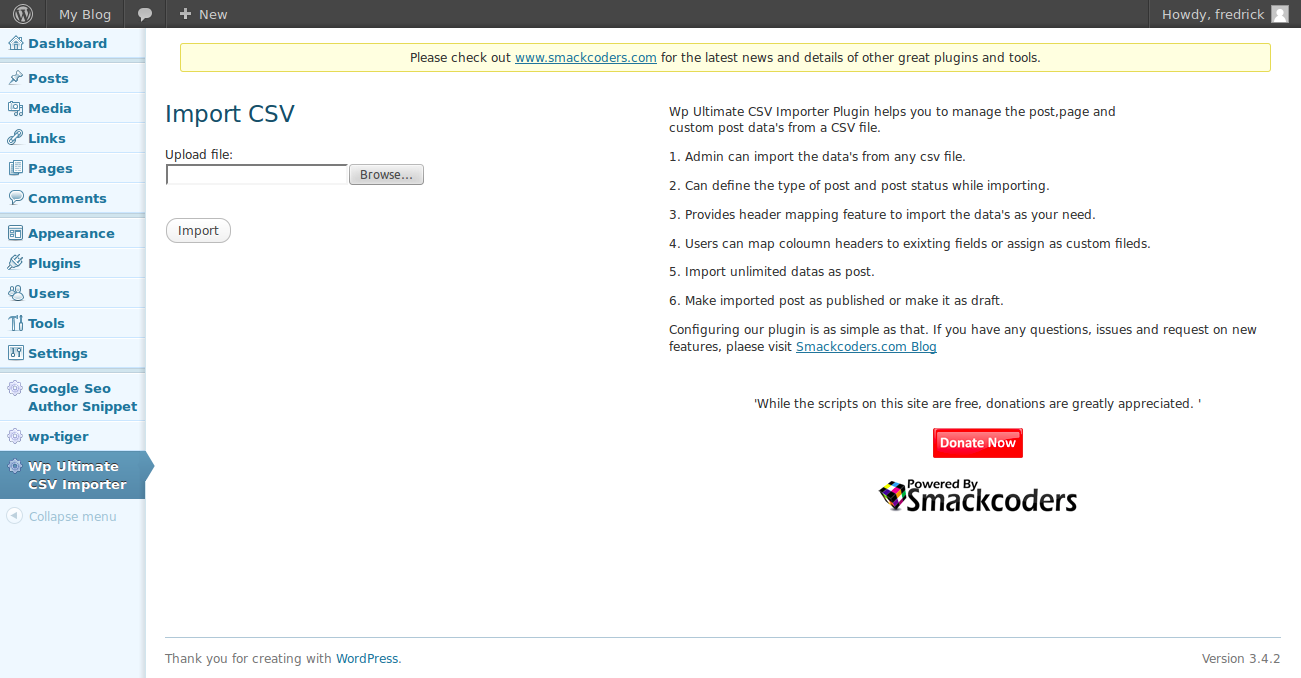
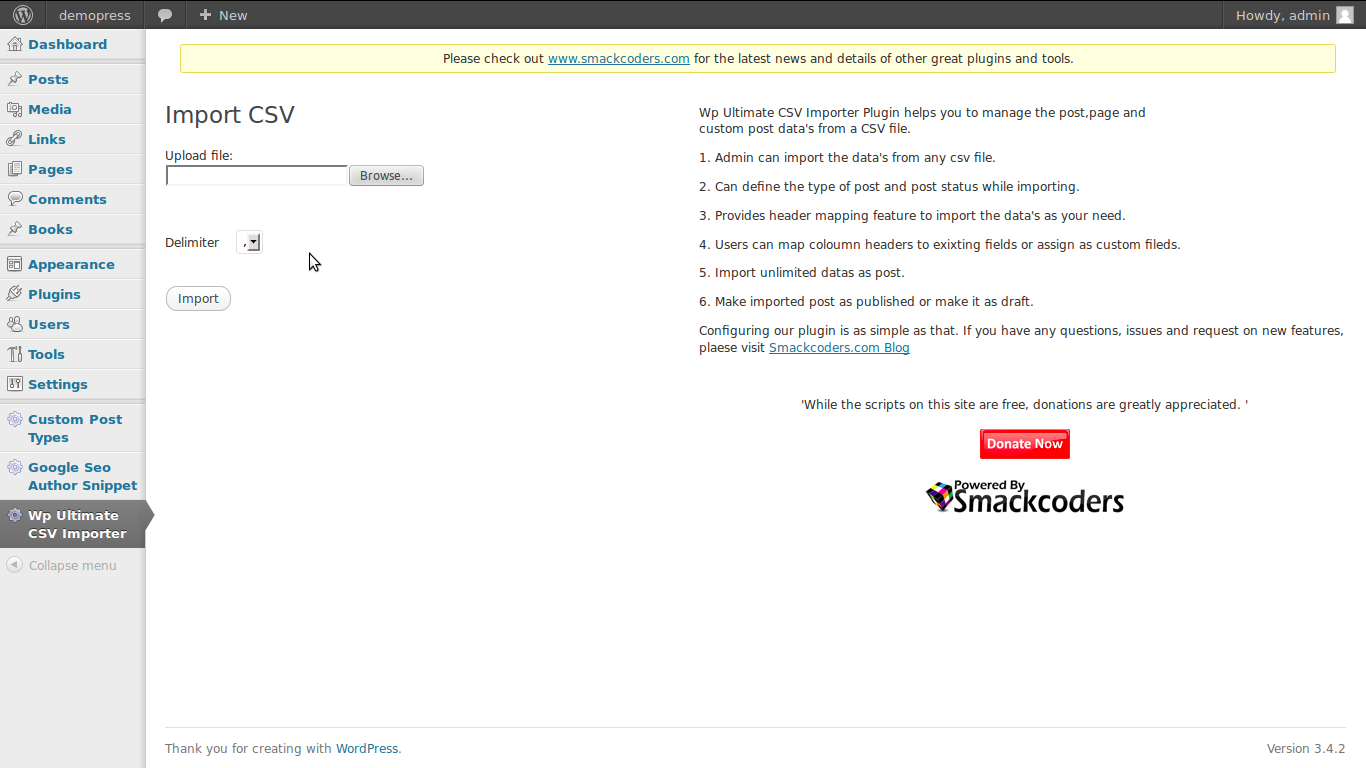
Added features to import multiple tags and categories with different delimiters.
git-svn-id: https://plugins.svn.wordpress.org/wp-ultimate-csv-importer/trunk@617751 b8457f37-d9ea-0310-8a92-e5e31aec5664

Changed region(s): [[0.0, 0.0, 1.0, 1.0], [0.6764, 0.7124, 0.8301, 0.7743], [0.9224, 0.9602, 0.9839, 0.9912]]

diff --git a/wp_ultimate_csv_importer.php b/wp_ultimate_csv_importer.php
@@ -3,7 +3,7 @@
 *Plugin Name: Wp Ultimate CSV Importer
 *Plugin URI: http://www.smackcoders.com/category/free-wordpress-plugins.html
 *Description: A plugin that helps to import the data's from a CSV file.
-*Version: 1.0.0
+*Version: 1.0.1
 *Author: smackcoders.com
 *Author URI: http://www.smackcoders.com
 *
@@ -36,7 +36,8 @@ $headers = array();
 global $defaults;
 global $wpdb;
 global $keys;
-
+global $delim;
+$delim = $_POST['delim'];
 // Get the custom fields
 $limit = (int) apply_filters( 'postmeta_form_limit', 30 );
 $keys = $wpdb->get_col( "
@@ -52,8 +53,8 @@ $defaults = array(
         'post_content'    => null,
         'post_excerpt'    => null,
         'post_date'       => null,
-        'post_tags'       => null,
-        'post_categories' => null,
+        'post_tag'        => null,
+        'category'	  => null,
         'post_author'     => null,
         'post_parent'     => 0,
     );
@@ -98,18 +99,18 @@ function description(){
 }
 
 // CSV File Reader
-function csv_file_data($file)
+function csv_file_data($file,$delim)
 {
 	global $data_rows;
 	global $headers;
+	global $delim;
         $resource = fopen($file, 'r');
-        while ($keys = fgetcsv($resource)) {
+        while ($keys = fgetcsv($resource,'',"$delim",'"')) {
             if ($c == 0) {
                 $headers = $keys;
             } else {
                 array_push($data_rows, $keys);
             }
-
             $c ++;
         }
         fclose($resource);
@@ -144,14 +145,15 @@ function upload_csv_file()
 	global $defaults;
 	global $keys;
 	global $custom_array;
+	global $delim;
 	$custom_array = array();
 	if(isset($_POST['Import']))
 	{
-		csv_file_data($_FILES['csv_import']['tmp_name']);
+		csv_file_data($_FILES['csv_import']['tmp_name'],$delim);
 		move_file();
 		?>
 	<div style="background-color: #FFFFE0;border-color: #E6DB55;border-radius: 3px 3px 3px 3px;border-style: solid;border-width: 1px;margin: 5px 15px 2px; margin-top:15px;padding: 5px;text-align:center"> Please check out <a href="http://smackcoders.com/category/free-wordpress-plugins.html" target="_blank">www.smackcoders.com</a> for the latest news and details of other great plugins and tools. </div><br/>
-
+		<?php if ( count($headers)>1 &&  count($data_rows)>1 ){?>
 		<div style="float:left;min-width:45%">
 		<form class="add:the-list: validate" method="post">
 			<h3>Import Data Configuration</h3>
@@ -176,10 +178,11 @@ function upload_csv_file()
 			<?php $cnt =count($defaults)+2; $cnt1 =count($headers); ?>
 			<input type="hidden" id="h1" name="h1" value="<?php echo $cnt; ?>"/>
 			<input type="hidden" id="h2" name="h2" value="<?php echo $cnt1; ?>"/>
-			<table>
+			<input type="hidden" id="delim" name="delim" value="<?php echo $_POST['delim']; ?>" />
+			<table style="font-size:12px;">
 			 <?php
 			  $count = 0;
-			  foreach($headers as $key=>$value){
+			  foreach($headers as $key=>$value){ 
 			 ?>
 			 <tr>
 			    <td>
@@ -212,11 +215,26 @@ function upload_csv_file()
 			<?php $result = description(); print_r($result); ?>
 		</div>
 	<?php
+		}
+		else { ?>
+		<div style="font-size:16px;margin-left:20px;">Your CSV file cannot be processed. It may contains wrong delimiter or please choose the correct delimiter.
+		</div><br/>
+		<div style="margin-left:20px;">
+		<form class="add:the-list: validate" method="post" action="">
+			<input type="submit" class="button" name="Import Again" value="Import Again"/>
+		</form>
+		</div>
+		<div style="margin-left:20px;margin-top:30px;">
+			<b>Note :-</b>
+			<p>1. Your CSV should contain "," or ";" as delimiters.</p>
+			<p>2. In CSV, tags should be seperated by "," to import mutiple tags and categories should be seperated by "|" to import multiple categories.</p>
+		</div>
+	<?php	}
 	}
 	else if(isset($_POST['post_csv']))
 	{
 		$dir = getcwd ().'/../wp-content/plugins/wp-ultimate-csv-importer/imported_csv/';
-		csv_file_data($dir.$_POST['filename']);
+		csv_file_data($dir.$_POST['filename'],$delim);
 		foreach($_POST as $postkey=>$postvalue){
 			if($postvalue != '-- Select --'){
 				$ret_array[$postkey]=$postvalue;
@@ -241,17 +259,24 @@ function upload_csv_file()
 				$custom_array[$v] =$new_post[$v];
 			     }
 			   }
-			  /* if(array_key_exists('textbox'.$inc,$new_post)){
-				$custom_array['textbox'.$inc] =$new_post['textbox'.$inc];
-			   }*/
 			}
 			foreach($new_post as $ckey => $cval){
+			   if($ckey!='category' && $ckey!='post_tag'){
 				if(array_key_exists($ckey,$custom_array)){
 					$darray[$ckey]=$new_post[$ckey];
 				}
 				else{
 					$data_array[$ckey]=$new_post[$ckey];
 				}
+			   }
+			   else{
+				if($ckey == 'post_tag'){
+					$tags[$ckey]=$new_post[$ckey];
+				}
+				if($ckey == 'category'){
+					$categories[$ckey]=$new_post[$ckey];
+				}
+			   }
 			}
 			$data_array['post_status']='publish';
 			if(isset($_POST['csv_importer_import_as_draft'])){
@@ -264,6 +289,20 @@ function upload_csv_file()
 					add_post_meta($post_id, $custom_key, $custom_value);
 				}
 			}
+
+			// Create/Add tags to post
+			if(!empty($tags)){
+				foreach($tags as $tag_key => $tag_value){
+					wp_set_post_tags( $post_id, $tag_value );
+				}
+			}  // End of code to add tags
+
+			// Create/Add category to post
+			if(!empty($categories)){
+				$split_line = explode('|',$categories['category']);
+				wp_set_object_terms($post_id, $split_line, 'category');
+
+			}  // End of code to add category
 		}
 	?>
 		<div style="background-color: #FFFFE0;border-color: #E6DB55;border-radius: 3px 3px 3px 3px;border-style: solid;border-width: 1px;margin: 5px 15px 2px; padding: 5px;text-align:center"><b> Successfully Imported ! </b></div>
@@ -291,7 +330,13 @@ function upload_csv_file()
 
 			<!-- File input -->
 			<p><label for="csv_import">Upload file:</label><br/>
-			    <input name="csv_import" id="csv_import" type="file" value="" aria-required="true" /></p>
+			    <input name="csv_import" id="csv_import" type="file" value="" aria-required="true" /></p><br/>
+			<p><label>Delimiter</label>&nbsp;&nbsp;&nbsp;
+			    <select name="delim" id="delim">
+				<option value=",">,</option>
+				<option value=";">;</option>
+			    </select>
+			</p>
 			<p class="submit"><input type="submit" class="button" name="Import" value="Import" /></p>
 			</form>
 		     </div>
